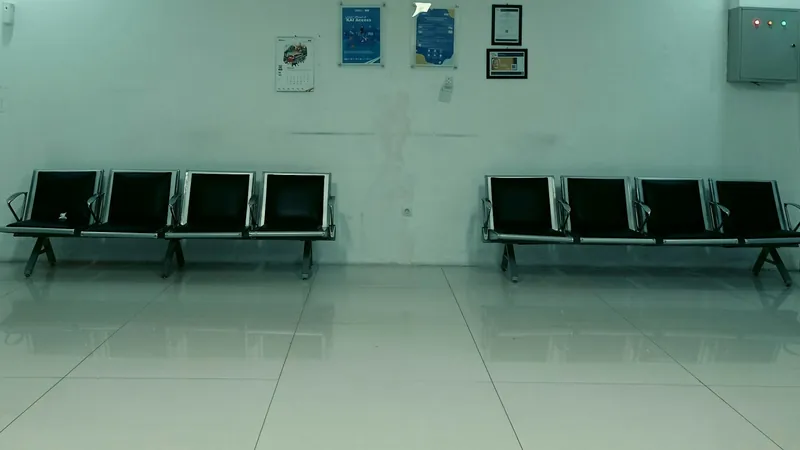
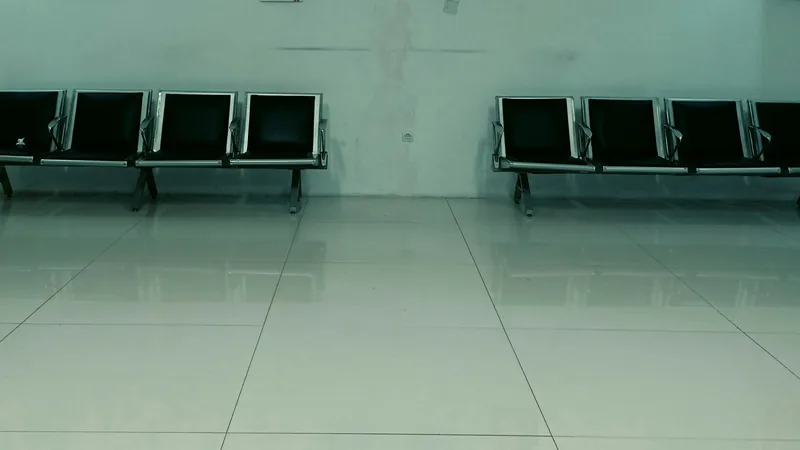
Recrop PediaMED hero and keep stock interiors honest
Crop the Unsplash waiting-room still so posters and any portrait
are gone. Restore the stock-interiors label and credit. Keep the
hero visible on first paint. Point directions at the same Maps pin.

diff --git a/src/lib/pediamed.ts b/src/lib/pediamed.ts
@@ -20,7 +20,7 @@ export const pediamed = {
   messenger: "https://m.me/PediaMedPH",
   messageLabel: "Message on Facebook",
   directions:
-    "https://www.google.com/maps/dir/?api=1&destination=PediaMED+Children%27s+Clinic%2C+Lot+5+Block+39+J.+Elizalde%2C+BF+Homes%2C+Para%C3%B1aque&destination_place_id=ChIJW_qmPgnPlzMR6OjPM2uvB8o",
+    "https://www.google.com/maps/dir/?api=1&destination=PediaMED+Children%27s+Clinic%2C+Unit+C+2nd+floor+LG+Centre+Building%2C+J.+Elizalde+St%2C+BF+Homes%2C+Para%C3%B1aque&destination_place_id=ChIJW_qmPgnPlzMR6OjPM2uvB8o",
   directionsLabel: "Get directions",
   hoursLabel: "Hours per Google Maps",
   hours: [
@@ -30,7 +30,7 @@ export const pediamed = {
   sampleNote:
     "A KantoCo sample for PediaMED Children's Clinic. Not live, and not the clinic's official site.",
   credit:
-    "Hero: Haikal Vivar, Unsplash. Interiors: consult-corner, Yusuf P (Pexels); play-area, Hakim Santoso (Pexels). Hours: Google Maps.",
+    "Stock photos, not PediaMED's. Hero: Haikal Vivar, Unsplash. Interiors: consult-corner, Yusuf P (Pexels); play-area, Hakim Santoso (Pexels). Hours: Google Maps.",
   madeBy: "Made by KantoCo · m.me/kantocoph",
   kantocoMessenger: KANTOCO_MESSENGER,
   asset: PEDIAMED_ASSET,
@@ -40,9 +40,9 @@ export const PEDIAMED_HERO = {
   file: "hero-waiting-16x9",
   file1x: "hero-waiting-16x9-1x",
   caption: "Stock waiting room, not PediaMED. Photo: Haikal Vivar, Unsplash.",
-  alt: "Empty waiting room with two rows of black chairs against a white wall.",
-  width: 1600,
-  height: 900,
+  alt: "Empty waiting room with two banks of black chairs against a white wall.",
+  width: 2132,
+  height: 1200,
 } as const;
 
 export const PEDIAMED_SHOTS = [

diff --git a/src/components/demos/pediamed/PediamedExperience.tsx b/src/components/demos/pediamed/PediamedExperience.tsx
@@ -43,12 +43,12 @@ function Hero() {
         <picture>
           <source
             type="image/webp"
-            srcSet={`${oneX}.webp 800w, ${base}.webp 1600w`}
+            srcSet={`${oneX}.webp 800w, ${base}.webp 2132w`}
             sizes={HERO_SIZES}
           />
           <img
             src={`${oneX}.jpg`}
-            srcSet={`${oneX}.jpg 800w, ${base}.jpg 1600w`}
+            srcSet={`${oneX}.jpg 800w, ${base}.jpg 2132w`}
             sizes={HERO_SIZES}
             width={PEDIAMED_HERO.width}
             height={PEDIAMED_HERO.height}
@@ -121,7 +121,7 @@ export function PediamedExperience() {
         ctx.add(() => {
           const fill = root.querySelector<HTMLElement>(".pm-name-fill");
           const rise = gsap.utils.toArray<HTMLElement>(
-            ".pm-opener-eyebrow, .pm-opener-copy, .pm-opener-btns a, .pm-hero-frame",
+            ".pm-opener-eyebrow, .pm-opener-copy, .pm-opener-btns a",
             root,
           );
           if (!fill) return;
@@ -234,7 +234,7 @@ export function PediamedExperience() {
           <Hero />
         </section>
 
-        <section className="pm-wrap pm-rooms" aria-label="Clinic interiors">
+        <section className="pm-wrap pm-rooms" aria-label="Stock interiors">
           <div className="pm-rooms-grid">
             {PEDIAMED_SHOTS.map((item) => (
               <Interior item={item} key={item.file} />

diff --git a/src/app/demos/pediamed/pediamed.css b/src/app/demos/pediamed/pediamed.css
@@ -182,8 +182,7 @@ html.js-anim .pm-name-fill {
 
 html.js-anim .pm-opener-eyebrow,
 html.js-anim .pm-opener-copy,
-html.js-anim .pm-opener-btns a,
-html.js-anim .pm-hero-frame {
+html.js-anim .pm-opener-btns a {
   opacity: 0;
 }
 
@@ -236,10 +235,6 @@ html.js-anim .pm-hero-frame {
 .pm-hero-frame img {
   object-fit: cover;
   transform-origin: 50% 50%;
-}
-
-html.js-anim .pm-hero-frame img {
-  transform: scale(1.04);
 }
 
 .pm-rooms {
